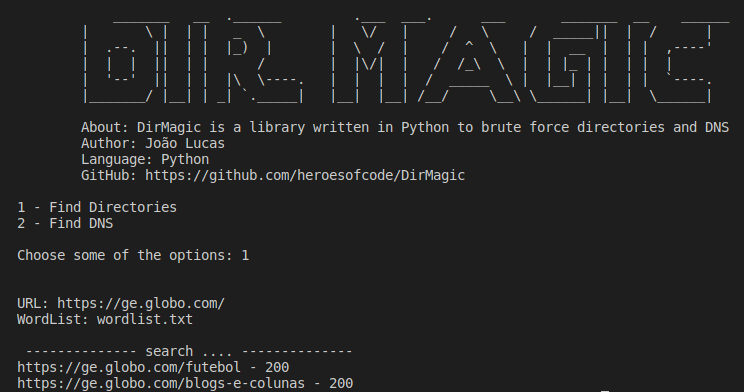
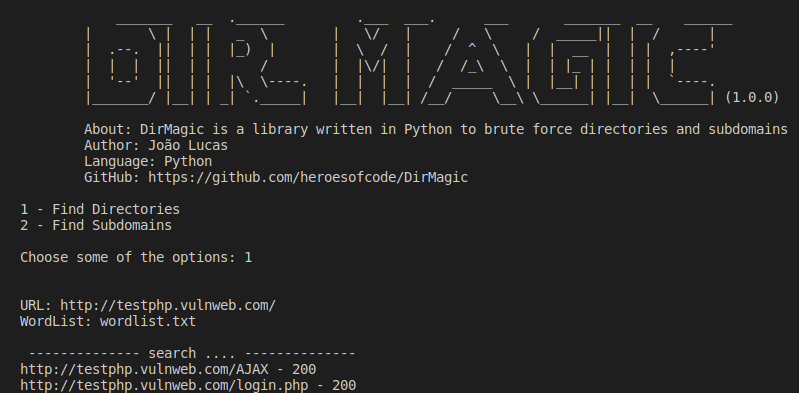
Adjust code and readme

diff --git a/dirMagic.py b/dirMagic.py
@@ -9,9 +9,9 @@ def header():
         |  .--.  ||  | |  |_)  |       |  \  /  |    /  ^  \   |  |  __  |  | |  ,----'
         |  |  |  ||  | |      /        |  |\/|  |   /  /_\  \  |  | |_ | |  | |  |     
         |  '--'  ||  | |  |\  \----.   |  |  |  |  /  _____  \ |  |__| | |  | |  `----.
-        |_______/ |__| | _| `._____|   |__|  |__| /__/     \__\ \______| |__|  \______|
+        |_______/ |__| | _| `._____|   |__|  |__| /__/     \__\ \______| |__|  \______| (1.0.0)
 
-        About: DirMagic is a library written in Python to brute force directories and DNS
+        About: DirMagic is a library written in Python to brute force directories and subdomains
         Author: João Lucas
         Language: Python
         GitHub: https://github.com/heroesofcode/DirMagic                                                                            
@@ -41,7 +41,7 @@ def find_dir():
         print("an error happened")
         sys.exit()
 
-def find_dns():
+def find_subdomains():
     try:
         print("\n")
         domain = input("Domain: ")
@@ -59,6 +59,9 @@ def find_dns():
                 resolver = dns.resolver.Resolver()
                 responses = resolver.resolve(subdomain, "A")
                 print("{}".format(subdomain))
+            except KeyboardInterrupt:
+                print("\n Bye!!!")
+                sys.exit()
             except:
                 pass
     except KeyboardInterrupt:
@@ -72,7 +75,7 @@ if __name__ == "__main__":
     header()
 
     print("1 - Find Directories")
-    print("2 - Find DNS \n")
+    print("2 - Find Subdomains \n")
     
     try:
         item = input("Choose some of the options: ")
@@ -80,7 +83,7 @@ if __name__ == "__main__":
         if item == "1":
             find_dir()
         elif item == "2":
-            find_dns()
+            find_subdomains()
         else:
             print("This option does not exist")
     except KeyboardInterrupt:

diff --git a/README.md b/README.md
@@ -15,7 +15,7 @@ git clone https://github.com/heroesofcode/DirMagic.git
 ```
 cd DirMagic
 pip install -r requirements.txt
-python3 dir.py
+python3 dirMagic.py
 ```
 
 1 - Find directories
@@ -24,7 +24,7 @@ python3 dir.py
 
 2 - Find subdomains
 
-<img src="https://github.com/heroesofcode/DirMagic/blob/master/assets/dns.png" width="700px" height="400px">
+<img src="https://github.com/heroesofcode/DirMagic/blob/master/assets/subdomain.png" width="700px" height="400px">
 
 ## Contribution
 
